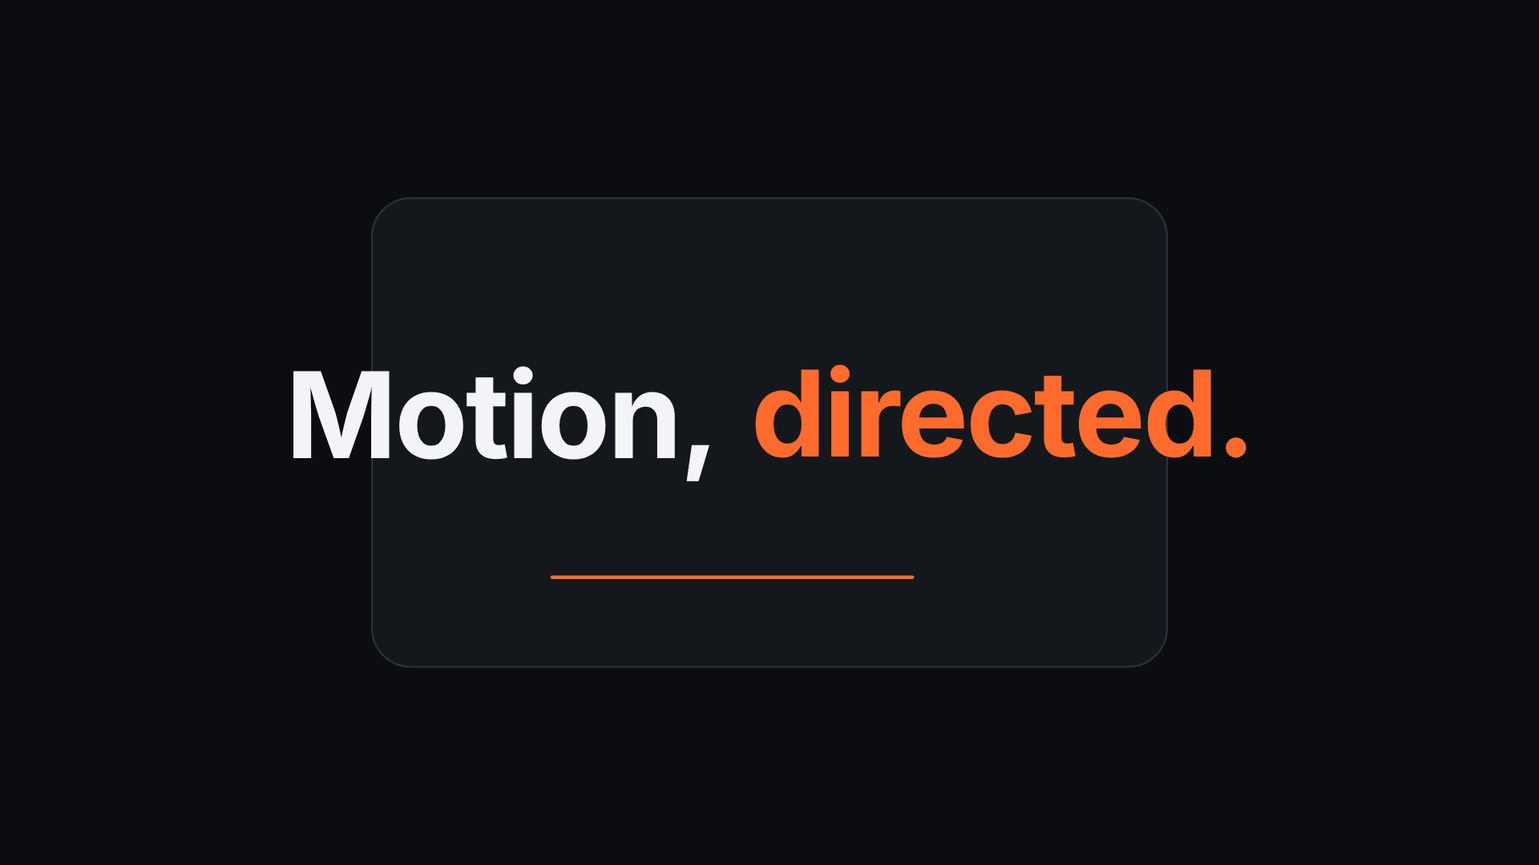
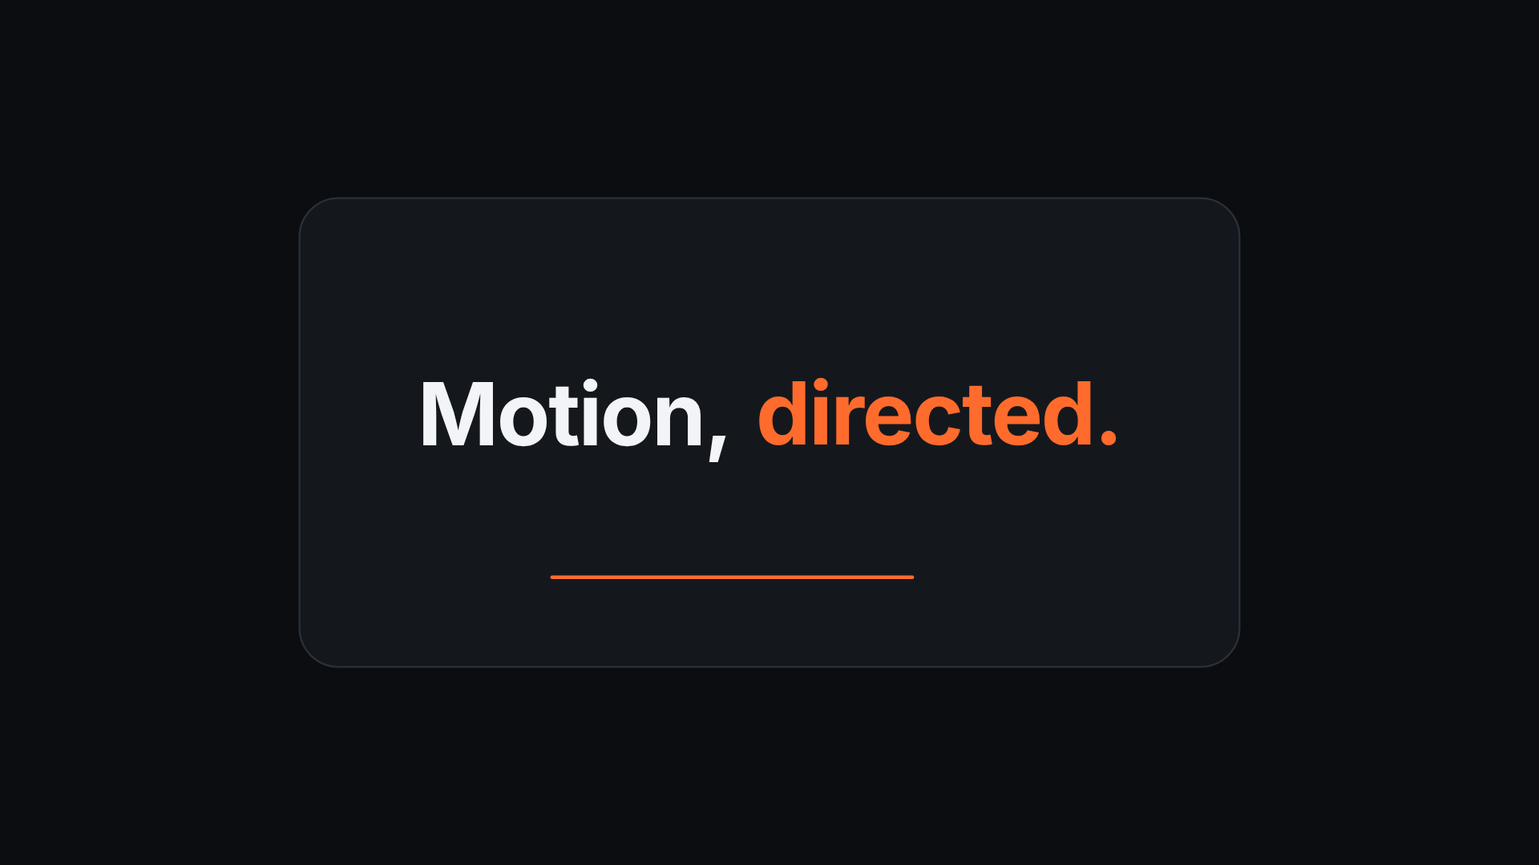
Integrate proof findings: disk and Chrome preflight, corrected hello spec (96 px headline, 1040 px card), re-rendered stills

Changed region(s): [[0.1875, 0.4278, 0.8125, 0.55]]

diff --git a/templates/remotion-hello/src/Hello.tsx b/templates/remotion-hello/src/Hello.tsx
@@ -54,7 +54,7 @@ export const Hello = () => {
   // Beat 1 card, Beat 2 morph to pill
   const enter = S(f - 6);
   const m = easeInOutCubic(clamp01((f - 54) / 24));
-  const w = lerp(880, 960, m);
+  const w = lerp(1040, 960, m);
   const h = lerp(520, 180, m);
   const radius = Math.min(lerp(44, 90, m), h / 2);
 
@@ -73,9 +73,9 @@ export const Hello = () => {
           opacity: clamp01((f - 6) / 6),
         }} />
 
-        <div style={{...row(520, 132), fontWeight: 700}}>
-          <Word f={f} start={14} size={132} weight={700} color={TEXT} rise={56} exit={exit1}>Motion,</Word>
-          <Word f={f} start={19} size={132} weight={700} color={ACCENT} rise={56} exit={exit2}>directed.</Word>
+        <div style={{...row(520, 96), fontWeight: 700}}>
+          <Word f={f} start={14} size={96} weight={700} color={TEXT} rise={56} exit={exit1}>Motion,</Word>
+          <Word f={f} start={19} size={96} weight={700} color={ACCENT} rise={56} exit={exit2}>directed.</Word>
         </div>
 
         {lineLen > 0 && (

diff --git a/templates/hyperframes-hello/index.html b/templates/hyperframes-hello/index.html
@@ -46,7 +46,7 @@
         position: absolute;
         left: 960px;
         top: 540px;
-        width: 880px;
+        width: 1040px;
         height: 520px;
         border-radius: 44px;
         background: #14181d;
@@ -63,7 +63,7 @@
       }
       #headline {
         top: 520px;
-        font-size: 132px;
+        font-size: 96px;
         font-weight: 700;
         gap: 0.28em;
       }
@@ -176,7 +176,7 @@
         return {
           cam: { scale: camera(f) },
           card: {
-            width: lerp(880, 960, m),
+            width: lerp(1040, 960, m),
             height: h,
             borderRadius: Math.min(lerp(44, 90, m), h / 2),
             scale: 0.86 + 0.14 * cs,

diff --git a/skills/motion-setup/SKILL.md b/skills/motion-setup/SKILL.md
@@ -1,6 +1,6 @@
 ---
 name: motion-setup
-description: Set up a motion-graphics rendering pipeline and prove it with a hello-world clip. Use when the user wants to make an animation, motion graphic, kinetic-type or UI clip as an mp4 and has not rendered anything yet, or when a render fails on a fresh machine. Checks Node, ffmpeg and Chrome/Chromium, picks the renderer (HyperFrames by default, Remotion optional), copies the hello template, and renders it to mp4.
+description: Set up a motion-graphics rendering pipeline and prove it with a hello-world clip. Use when the user wants to make an animation, motion graphic, kinetic-type or UI clip as an mp4 and has not rendered anything yet, or when a render fails on a fresh machine. Checks Node, ffmpeg, free disk and a headless Chrome route, picks the renderer (HyperFrames by default, Remotion optional), copies the hello template, and renders it to mp4.
 ---
 
 # motion-setup
@@ -15,8 +15,9 @@ Run these and report a table of found / missing / version. Fix or ask before goi
 |---|---|---|
 | Node | `node -v` | 22 or newer (HyperFrames requires 22+; 24 was used to test this plugin). |
 | ffmpeg + ffprobe | `ffmpeg -version`, `ffprobe -version` | Both must be on PATH. Install with the system package manager (`apt install ffmpeg`, `brew install ffmpeg`). |
-| Chrome or Chromium | `command -v google-chrome chromium chromium-browser`; on macOS look in `/Applications` | Frames are painted by headless Chrome. If none is installed, the renderer reference says whether the renderer downloads its own. |
-| Memory and disk | `free -h`, `df -h .` | Aim for 4 GB free RAM and a few GB free disk. Close other browsers before rendering. |
+| Free disk | `df -h . "${TMPDIR:-/tmp}"` | **Warn below about 2 GB free** on both the project disk and the temp disk. Needs: HyperFrames about 400 MB (`node_modules` 120 MB + Chrome 260 MB) and it refuses to render below 1 GB free; Remotion about 800 MB (`node_modules` 490 MB + Chrome 300 MB) plus temp frames. On a full disk Remotion's Chrome download dies with `ENOSPC` and a render can hang at low CPU instead of failing. Free space first; do not delete caches you did not create. |
+| Memory | `free -h` | Aim for 4 GB free RAM. Close other browsers before rendering. |
+| Chrome | Nothing to install. Optional: `command -v google-chrome chromium chromium-browser`, `ls ~/.cache/ms-playwright/chromium_headless_shell-*/chrome-headless-shell-linux64/chrome-headless-shell`; on macOS look in `/Applications` | **Neither renderer needs a system Chrome**: each downloads its own Chrome Headless Shell on first use (HyperFrames about 115 MB via `npx hyperframes browser ensure`, Remotion about 100 MB on first render or `npx remotion browser ensure`). **Fallback if the download is blocked or the disk is too small:** Remotion accepts an existing headless shell or Chromium with `--browser-executable=/path/to/binary` on every render and still command (tested with Playwright's `chrome-headless-shell`). A system Chrome route for HyperFrames is untested; see its reference. |
 | Temp dir | `echo $TMPDIR` | If a render dies with "Target crashed" or runs out of space, point `TMPDIR` at a real disk directory (many systems back `/tmp` with RAM). |
 
 Do not install anything globally without asking.
@@ -38,10 +39,16 @@ Remotion is free for individuals, for-profit organisations with up to 3 employee
 
 The plugin ships one identical ~4 s clip per renderer (a spring with tiny overshoot, a camera zoom, a shape morph, kinetic type). Copy the template into the user's working directory; never edit it in place:
 
-- HyperFrames: copy `${CLAUDE_SKILL_DIR}/../../templates/hyperframes-hello/` (repo root: `templates/hyperframes-hello/`) to `./motion-hello`.
-- Remotion: copy `${CLAUDE_SKILL_DIR}/../../templates/remotion-hello/` (repo root: `templates/remotion-hello/`) to `./motion-hello`.
+```bash
+# HyperFrames (use remotion-hello for Remotion). Claude Code substitutes ${CLAUDE_SKILL_DIR};
+# in a shell you run yourself, write out the plugin's path instead (the repo root has templates/).
+cp -r "${CLAUDE_SKILL_DIR}/../../templates/hyperframes-hello" ./motion-hello
+cd motion-hello
+npm install                      # warns about esbuild's postinstall: harmless
+npx hyperframes browser ensure   # HyperFrames only: fetch its headless Chrome (Remotion fetches on first render)
+```
 
-The clip is specified in `docs/HELLO-SPEC.md` at the repo root. Then install dependencies as the renderer reference says (`npm install` inside `motion-hello`).
+The clip is specified in `docs/HELLO-SPEC.md` at the repo root. Every later command in this skill and its reference runs from inside `./motion-hello`. Use `${CLAUDE_SKILL_DIR}/../../templates/remotion-hello` for Remotion, and see its reference for `--browser-executable` and `TMPDIR`.
 
 ## 4. Render to mp4
 
@@ -51,7 +58,7 @@ Follow the render command in the chosen reference. Expect 1920x1080, 30 fps, 120
 ffprobe -v error -show_entries stream=codec_name,width,height,r_frame_rate,nb_frames -of default=nw=1 out/hello.mp4
 ```
 
-Report the file path, size and render time. If the file is missing or has the wrong size, use the troubleshooting section of the reference before retrying; change one thing per retry.
+Report the file path, size and render time (about 14 to 21 s for the hello clip). The `out/` directory is created by the renderer or `mkdir -p out`. If the file is missing or has the wrong size, use the troubleshooting section of the reference before retrying; change one thing per retry.
 
 ## 5. Hand over
 

diff --git a/NOTES.md b/NOTES.md
@@ -11,7 +11,10 @@
 
 ## Facts not verified (as of 2026-10-19)
 
-- Minimum Node version for Remotion and whether each renderer downloads its own Chrome: left to the renderer references; not checked here.
+- Remotion's default Chrome Headless Shell download was never completed end to end (the proof disk was full); the `--browser-executable` fallback with Playwright's headless shell is what was tested. Remotion's minimum Node is documented as 18+; the proof ran on Node 24.
+- HyperFrames with a system Chrome instead of its own headless shell: untested (it downloads its own, which was verified).
+- Pixel diff of the two hello clips: only three stills compared (PSNR 35.1 dB start, 35.4 dB end, identical middle); the six-frame comparison in the spec was not run.
+- Verified in the proofs: HyperFrames needs Node 22+ and no system Chrome (own headless shell); Remotion needs no system Chrome per its docs.
 - `${CLAUDE_SKILL_DIR}` use inside SKILL.md body is documented for running bundled scripts; its use for template paths inside prose is assumed, not tested.
 - `claude plugin validate` was not run in this pass.
 - Skill `name` length limit: the skills page states none.
@@ -25,3 +28,29 @@
 - Skills: https://code.claude.com/docs/en/skills (SKILL.md frontmatter: `name`, `description` etc.; `description` + `when_to_use` truncated at 1,536 chars; keep SKILL.md under 500 lines; link supporting files)
 - Remotion licence: https://www.remotion.dev/docs/license and https://raw.githubusercontent.com/remotion-dev/remotion/main/LICENSE.md (read 2026-10-19: free for individuals, for-profits up to 3 employees, non-profits, evaluation; Company License otherwise; Remotion 5.0 changes). Pricing: https://www.remotion.pro/license
 - HyperFrames: https://github.com/heygen-com/hyperframes (Apache-2.0, Node 22+)
+
+## Proof fixes
+
+Both proof logs (`docs/PROOF-hyperframes.md`, `docs/PROOF-remotion.md`) proposed fixes. Status after integration:
+
+Applied (13):
+
+1. HF/RM: Chrome row says no system Chrome needed for either renderer, with download sizes and the `--browser-executable` fallback (`motion-setup/SKILL.md`).
+2. HF/RM: disk row replaced by a `df -h . "$TMPDIR"` check that warns below about 2 GB, with per-renderer budgets, the HyperFrames 1 GB guard and the Remotion ENOSPC / low-CPU hang (`motion-setup/SKILL.md`).
+3. HF/RM: section 3 has explicit `cp`, `npm install`, `browser ensure`; says `${CLAUDE_SKILL_DIR}` is substituted by Claude Code but must be written out in a user shell.
+4. HF/RM: section 4 states commands run from `./motion-hello` and that `out/` is created by the renderer or `mkdir -p out`.
+5. HF/RM: `motion-stills-loop/SKILL.md` step 2 says the reference command produces zero-padded `fNNNN.png` names and the globs depend on them.
+6. HF/RM: README quick starts match SKILL.md and the references: disk figures, `browser ensure`, first-render download, `--browser-executable`, telemetry opt-out.
+7. HF/RM: HELLO-SPEC headline overflow: headline 96 px (the `motion-direction` minimum) and card 1040 px wide (morph `lerp(1040, 960, m)`, middle still 1000 x 350). Headline is about 873 px wide, about 83 px margin per side. Both templates changed, 3 stills each re-rendered.
+8. NOTES "Facts not verified" updated (above).
+9. Reference lines contradicted by the spec change fixed: `motion-direction/references/hyperframes.md` (3 lines) and `remotion.md` (1 line).
+10. Template READMEs: the overflow notes replaced with the corrected values.
+11. HF items 1 to 4 and 6 and Remotion items 1 to 5 were already fixed in the references by the proof workers; unchanged here.
+12. README says the hello clip follows the corrected values.
+13. Remotion "state Remotion downloads its own Chrome": in the Chrome row.
+
+Rejected:
+
+- Headline-fix option "wider card only": at 132 px the text is about 1200 px, which would need a card of about 1300 px (68 % of frame width, over the 55 % hero framing guidance at camera 1.2). Rejected for the smaller type plus modest widening.
+- Headline-fix option "104 px on the 880 px card" from the HyperFrames log: it was based on an estimate of 1060 px at 132 px. Measured width is about 1200 px (both stills), so 104 px would be about 945 px and still overhang. Rejected.
+- "Pixel diff against the HyperFrames version" (Remotion deviations): partially done (3 stills), full six-frame diff left open above.

diff --git a/docs/HELLO-SPEC.md b/docs/HELLO-SPEC.md
@@ -48,13 +48,13 @@ The whole scene (everything below) sits in one wrapper scaled about C. Camera sc
 | 54 to 78 | `lerp(1.20, 1.12, easeInOutCubic((f-54)/24))` |
 | 78 to 119 | `lerp(1.12, 1.18, (f-78)/41)` (linear drift) |
 
-Framing check: hero is 880 x 1.20 = 1056 px (55 % of width) at f54, and 960 x 1.12 = 1075 px (56 %) at f78, 1133 px (59 %) at f119.
+Framing check: hero is about 1000 x 1.16 = 1160 px (60 % of width) at f54 (1040 wide card morphing), and 960 x 1.12 = 1075 px (56 %) at f78, 1133 px (59 %) at f119.
 
 ### Beat 1: card and headline (frames 6 to 58)
 
-- **Card** (hero): rounded rectangle centred on C, 880 x 520, radius 44, fill Surface, border Border.
+- **Card** (hero): rounded rectangle centred on C, 1040 x 520, radius 44, fill Surface, border Border.
   - Enters at frame 6: `scale = 0.86 + 0.14 * S(f-6)`, `translateY = 60 * (1 - S(f-6))` px, `opacity = clamp01((f-6)/6)`.
-- **Headline** "Motion, directed." two words, Inter 700, 132 px, centred on C, words separated by a 0.28 em space, vertical centre at y = 520.
+- **Headline** "Motion, directed." two words, Inter 700, 96 px (the `motion-direction` minimum), centred on C, words separated by a 0.28 em space, vertical centre at y = 520. The text is about 873 px wide, so it sits inside the 1040 px card with about 83 px of margin per side. (At the earlier 132 px it was about 1200 px wide and overhung the old 880 px card.)
   - Word 1 "Motion," colour Text, starts frame 14. Word 2 "directed." colour Accent, starts frame 19.
   - Each word: `translateY = 56 * (1 - S(f-start))` px, `opacity = clamp01((f-start)/5)`.
 - **Draw-on line**: 4 px tall, Accent, round caps, horizontal from x = 720 to x = 1200 at y = 700. Draws left to right from frame 22 to 40: `length = 480 * easeOutCubic(clamp01((f-22)/18))`.
@@ -64,7 +64,7 @@ Framing check: hero is 880 x 1.20 = 1056 px (55 % of width) at f54, and 960 x 1.
 
 Card becomes pill, centred on C throughout. `m = easeInOutCubic(clamp01((f-54)/24))`:
 
-- width `lerp(880, 960, m)`, height `lerp(520, 180, m)`, corner radius `min(lerp(44, 90, m), height / 2)`.
+- width `lerp(1040, 960, m)`, height `lerp(520, 180, m)`, corner radius `min(lerp(44, 90, m), height / 2)`.
 - Fill and border unchanged. Pill is 960 x 180, radius 90 from frame 78.
 
 ### Beat 3: pill text (frames 72 to 119)
@@ -93,7 +93,7 @@ Frames 100 to 119: hold (only the camera drift moves).
 | Name | Frame | Shows |
 |---|---|---|
 | start | 30 | card at rest, both words in, line mid-draw |
-| middle | 66 | morph at its midpoint (m = 0.5): about 920 x 350, radius 67, no text |
+| middle | 66 | morph at its midpoint (m = 0.5): 1000 x 350, radius 67, no text |
 | end | 119 | pill at rest with all three words |
 
 Comparison frames for a pixel diff of the two versions: 12, 30, 48, 66, 84, 119. Expect only anti-aliasing and text-rasterisation differences; a visible difference in position, size, colour or timing is a bug in one version.

diff --git a/README.md b/README.md
@@ -6,7 +6,7 @@ Skills:
 
 | Skill | What it does |
 |---|---|
-| `motion-setup` | Checks Node, ffmpeg and Chrome/Chromium, picks the renderer, copies a hello-world clip and renders it to mp4. |
+| `motion-setup` | Checks Node, ffmpeg and free disk, picks the renderer, copies a hello-world clip and renders it to mp4. |
 | `motion-direction` | Turns an idea into a treatment and keeps the clip from looking like generic AI animation. |
 | `motion-stills-loop` | Plan, render key stills, review, get your approval, then render the full clip. |
 
@@ -29,19 +29,19 @@ Ask Claude: "Set up motion-craft and render the hello clip." It runs `motion-set
 
 **HyperFrames (default)**
 
-1. Preflight: Node 22+, ffmpeg, Chrome or Chromium.
-2. The skill copies `templates/hyperframes-hello/` to `./motion-hello`, installs dependencies and renders it.
-3. Result: a 1920x1080, 30 fps, 4 s `hello.mp4`. Commands: `skills/motion-setup/references/hyperframes.md`.
+1. Preflight: Node 22+, ffmpeg and ffprobe, at least 2 GB free disk (HyperFrames refuses to render below 1 GB; it needs about 400 MB). No system Chrome needed.
+2. The skill copies `templates/hyperframes-hello/` to `./motion-hello`, runs `npm install` and `npx hyperframes browser ensure` (downloads about 115 MB of headless Chrome once), then `npx hyperframes check` and `npm run render`.
+3. Result: a 1920x1080, 30 fps, 4 s `out/hello.mp4` in about 15 s. Commands: `skills/motion-setup/references/hyperframes.md`. The CLI sends anonymous telemetry; opt out with `npx hyperframes telemetry disable`.
 
 **Remotion**
 
-1. Same preflight. The skill first asks whether your organisation may use Remotion for free (see below).
-2. It copies `templates/remotion-hello/` to `./motion-hello`, installs and renders.
-3. Same output. Commands: `skills/motion-setup/references/remotion.md`.
+1. Same preflight, with more disk: allow about 800 MB (`node_modules` 490 MB, Chrome 300 MB) plus temp frames. A full disk makes the Chrome download fail with `ENOSPC` or a render hang at low CPU. The skill first asks whether your organisation may use Remotion for free (see below).
+2. It copies `templates/remotion-hello/` to `./motion-hello`, runs `npm install`, then `npx remotion render src/index.ts hello out/hello.mp4 --concurrency=2`. The first render downloads about 100 MB of Chrome Headless Shell; if that is blocked, add `--browser-executable=/path/to/chrome-headless-shell` or Chromium.
+3. Same output in about 20 s. Commands: `skills/motion-setup/references/remotion.md`.
 
 Then ask for your own clip: "Make a 10 s announcement clip for X." `motion-direction` writes a treatment, `motion-stills-loop` shows you stills before the full render.
 
-The hello clip is specified in [docs/HELLO-SPEC.md](docs/HELLO-SPEC.md). Both templates follow it.
+The hello clip is specified in [docs/HELLO-SPEC.md](docs/HELLO-SPEC.md). Both templates follow it (headline 96 px on a 1040 px card).
 
 ## Licence
 

diff --git a/skills/motion-direction/references/hyperframes.md b/skills/motion-direction/references/hyperframes.md
@@ -62,7 +62,7 @@ One wrapper around the whole scene, scaled about the frame centre:
 tl.set("#cam", { scale: camera(f) }, at);   // camera(f) is a piecewise function of the frame
 ```
 
-Pushes use `easeInOutCubic`, the slow drift under a held state is linear. Choose the scale so the hero is half to three quarters of the 1920 px width (hello: 880 px card x 1.2 = 55 %). Put the camera on its own element, never on `#root`, so the page background does not scale.
+Pushes use `easeInOutCubic`, the slow drift under a held state is linear. Choose the scale so the hero is half to three quarters of the 1920 px width (hello: 1040 px card x 1.2 = 65 %). Put the camera on its own element, never on `#root`, so the page background does not scale.
 
 ## Shape morph
 
@@ -71,7 +71,7 @@ Morph one element, do not cross-fade two. Animate `width`, `height` and `borderR
 ```js
 const m = easeInOutCubic(clamp01((f - 54) / 24));
 const h = lerp(520, 180, m);
-tl.set("#card", { width: lerp(880, 960, m), height: h, borderRadius: Math.min(lerp(44, 90, m), h / 2) }, at);
+tl.set("#card", { width: lerp(1040, 960, m), height: h, borderRadius: Math.min(lerp(44, 90, m), h / 2) }, at);
 ```
 
 Clamp the radius to `height / 2` or CSS will fall back to a different curve at the end. Use `box-sizing: border-box` so the 2 px border stays inside the size. For arbitrary shapes (icon to icon) animate SVG path data with a library such as flubber; it was not tested here.
@@ -105,7 +105,7 @@ Words of one headline sit in a `display: flex; gap: 0.28em` row so their positio
 
 ## Type
 
-Bundle the font in the project (`fonts/*.woff2` and an `@font-face` with a relative URL); do not use a CDN or a system fallback. After `snapshot` or `render`, check the log line `Fonts: N loaded`. Set `line-height: 1` and `letter-spacing: -0.02em` for headlines. Measure the headline against its container: at 132 px Inter 700, "Motion, directed." is about 1060 px wide, wider than the 880 px card in the hello clip (see the template README).
+Bundle the font in the project (`fonts/*.woff2` and an `@font-face` with a relative URL); do not use a CDN or a system fallback. After `snapshot` or `render`, check the log line `Fonts: N loaded`. Set `line-height: 1` and `letter-spacing: -0.02em` for headlines. Measure the headline against its container: at 96 px Inter 700, "Motion, directed." is about 873 px wide, which fits the 1040 px card of the hello clip with about 83 px per side; at 132 px it would be about 1200 px and overhang it.
 
 ## Audio and SFX
 

diff --git a/docs/PROOF-hyperframes.md b/docs/PROOF-hyperframes.md
@@ -64,3 +64,7 @@ Template issue found and fixed on the way: `hyperframes docs gsap` and `init` lo
 - `README.md` quick start, HyperFrames: add `npx hyperframes browser ensure`, the 1 GB disk note, and that anonymous CLI telemetry can be disabled with `npx hyperframes telemetry disable`.
 - `docs/HELLO-SPEC.md` (both versions): decide the headline overflow. Smallest change: headline 104 px (about 840 px wide, still above the 96 px minimum in `motion-direction`) or a wider card; the Remotion version needs the same change.
 - `NOTES.md`: HyperFrames Chrome handling and Node version are now verified (Node 22+, own headless shell). `${CLAUDE_SKILL_DIR}` in prose is still untested inside Claude Code.
+
+## Re-render after integrate
+
+HELLO-SPEC changed (headline 96 px, card 1040 px wide, morph 1040 to 960; middle still 1000 x 350). The HyperFrames template was updated to the same values and the clip re-rendered in `~/scratch/motion-craft-proof/` under `flock ~/scratch/motion-craft-proof/.render.lock`. Full render `npm run render` (flock-wrapped): **13.9 s wall** (CLI: rendered in 12.0 s), peak RSS 492 MB, 418 KB mp4, ffprobe 1920x1080, 30/1, 120 frames. Fresh `npm install`, `browser ensure` (Chrome already cached) and `check` passed. Stills via the reference `FRAMES="30 66 119"` block: start, middle, end replaced. The headline now spans about 873 px inside the 1040 px card (x 523 to 1395 at frame 30 of the HyperFrames still, card edges at 373 and 1547). The earlier numbers above describe the pre-integrate clip. Cross-renderer PSNR of the new stills: start 35.1 dB, middle identical, end 35.4 dB (anti-aliasing only). node_modules and frames were deleted afterwards.

diff --git a/docs/PROOF-remotion.md b/docs/PROOF-remotion.md
@@ -57,3 +57,7 @@ Stills: `previews/remotion/start.png` (frame 30), `middle.png` (66), `end.png` (
 ## Cleanup
 
 Chrome processes started by this job were killed after the stills; `node_modules` and `out/` in the scratch dir were removed after the proof except `out/hello.mp4`. Disk during the proof: root at 99 to 100 % until the orchestrator cleaned the npm cache; this job's scratch peaked at about 0.5 GB.
+
+## Re-render after integrate
+
+HELLO-SPEC changed (headline 96 px, card 1040 px wide, morph 1040 to 960; middle still 1000 x 350). The Remotion template was updated to the same values and the clip re-rendered in `~/scratch/motion-craft-proof/` under `flock ~/scratch/motion-craft-proof/.render.lock`. Full render (`--concurrency=2 --browser-executable=<Playwright headless shell>`, flock-wrapped): **20.8 s wall**, 179 kB mp4, ffprobe 1920x1080, 30/1, 120 frames. Fresh `npm install` (258 packages). 3 stills via `remotion still`: start, middle, end replaced. The headline now spans about 873 px inside the 1040 px card (x 523 to 1395 at frame 30 of the HyperFrames still, card edges at 373 and 1547). The earlier numbers above describe the pre-integrate clip. Cross-renderer PSNR of the new stills: start 35.1 dB, middle identical, end 35.4 dB (anti-aliasing only). node_modules and frames were deleted afterwards.

diff --git a/templates/hyperframes-hello/README.md b/templates/hyperframes-hello/README.md
@@ -17,7 +17,7 @@ Pinned: `hyperframes` 0.8.174, `gsap` 3.15.0. Fonts: Inter 600 and 700 (latin su
 
 ## Deviations and open points
 
-- The spec puts the headline on one line at 132 px, centred on the 880 px card. Inter 700 at 132 px makes "Motion, directed." about 1060 px wide, so the headline is wider than the card (see `previews/hyperframes/start.png`). Implemented as specified; the spec needs a decision (smaller type, stacked words, or a wider card).
+- Headline 96 px on a 1040 px card, as in the corrected spec: the headline is about 873 px wide and fits with about 83 px per side.
 - The draw-on line is an SVG line with round caps, so it extends 2 px past x = 720 and x = 1200.
 - Rows are laid out with a flex `gap: 0.28em` rather than literal space characters.
 - Fonts are the Fontsource latin subset of Inter 5.3.0, not the full family.

diff --git a/skills/motion-stills-loop/SKILL.md b/skills/motion-stills-loop/SKILL.md
@@ -17,7 +17,7 @@ From `treatment.md`, list one frame per beat at the moment the beat reads best (
 
 ### 2. Render the stills
 
-Render only those frames as PNG into `stills/` using the reference for the chosen renderer. Name files by frame: `stills/f0090.png`. Then build two overview images if ffmpeg is available:
+Render only those frames as PNG into `stills/` using the reference for the chosen renderer; its command produces the required names, zero-padded by frame: `stills/f0090.png`. The globs below sort alphabetically and only give frame order with that padding, so do not rename. Then build two overview images if ffmpeg is available:
 
 ```bash
 # contact sheet: all stills in a grid

diff --git a/templates/remotion-hello/README.md b/templates/remotion-hello/README.md
@@ -7,4 +7,4 @@ npm install
 npx remotion render src/index.ts hello out/hello.mp4 --concurrency=2
 ```
 
-Deviations from the spec: spring is the closed form in `src/helpers.ts` (not `spring()`); Inter is the latin subset only (SIL OFL, `public/fonts/OFL.txt`). The 132 px headline is wider than the 880 px card, as the spec's numbers imply.
+Deviations from the spec: spring is the closed form in `src/helpers.ts` (not `spring()`); Inter is the latin subset only (SIL OFL, `public/fonts/OFL.txt`). The headline is 96 px on a 1040 px card (the spec's corrected values; the headline is about 873 px wide).
